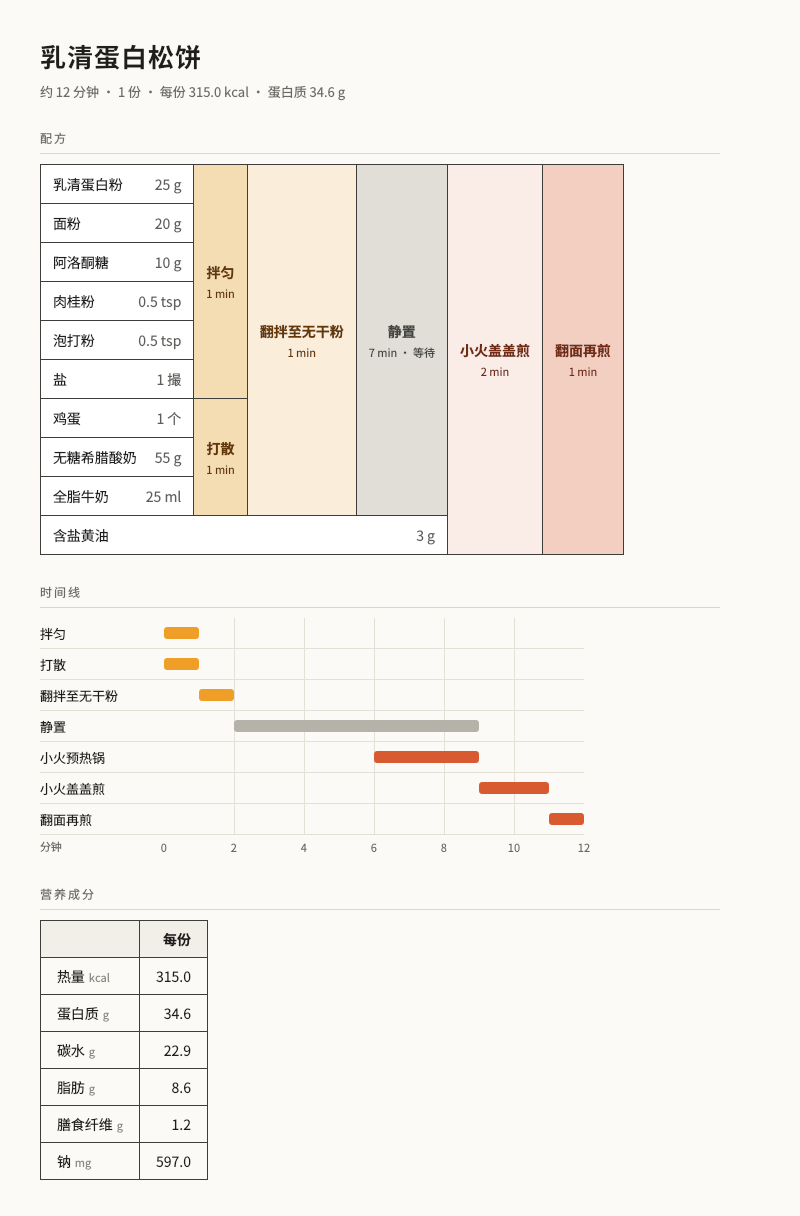
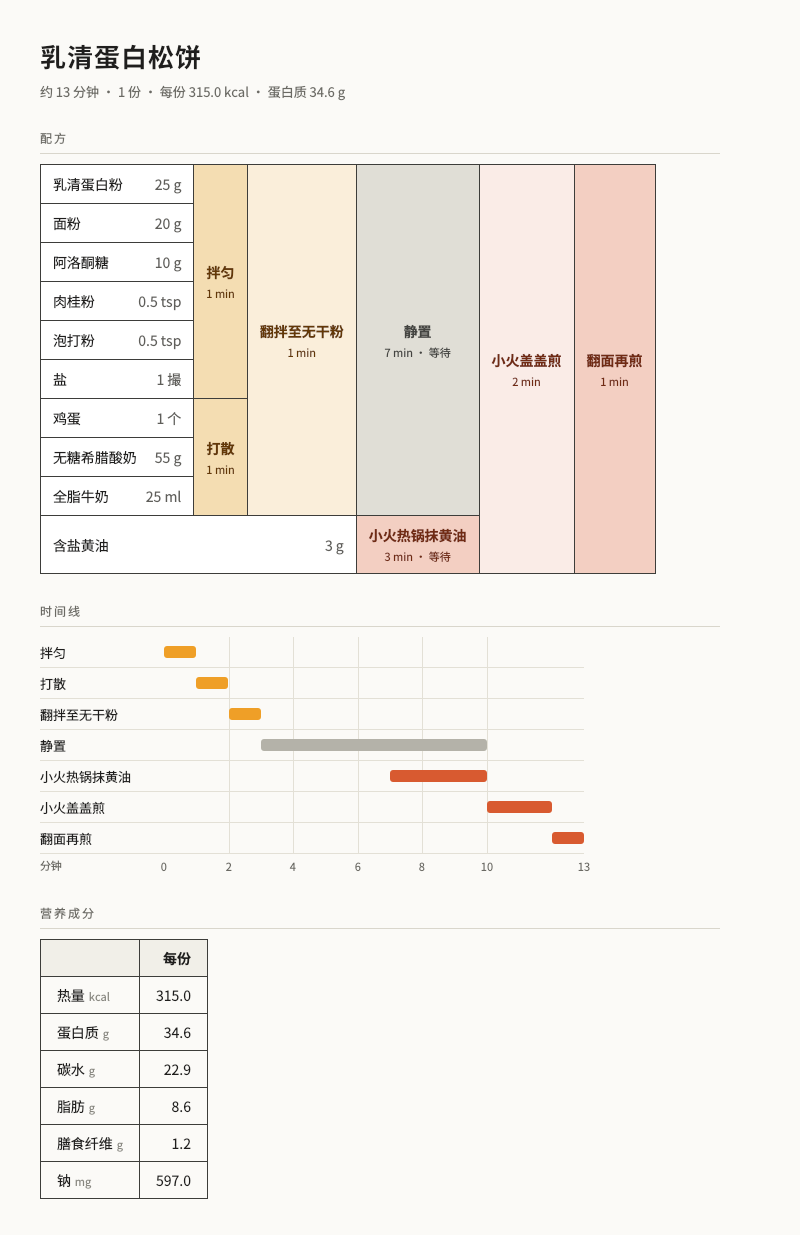
Schedule for one cook and put pan prep in the recipe table
- render_recipe.py: hands-on steps no longer overlap on the timeline;
  steps sit right-aligned so side prep lines up under the step it runs
  alongside; input-less prep steps get their own table row; end tick
  no longer collides with the last grid label
- recipes: butter now goes through a pan-heating step that appears in
  the table and finishes when resting/soaking ends
- SKILL.md: add a self-check step before showing the result;
  yaml-format.md documents prep-in-table and the one-cook timeline

Claude-Session: https://claude.ai/code/session_01QTuuncf3o8J9F6xQdQUiuV

diff --git a/skills/recipe-table/scripts/render_recipe.py b/skills/recipe-table/scripts/render_recipe.py
@@ -30,11 +30,12 @@ for k, s in STEPS.items():
         assert c in ING or c in STEPS, f"{k}: unknown input {c}"
     s["phase"] = s.get("phase") or ("wait" if s.get("passive") else "prep")
     assert s["phase"] in ("prep", "wait", "heat"), f"{k}: phase must be prep/wait/heat"
-TREE = {k: s for k, s in STEPS.items() if s["in"]}
-uses = [c for s in TREE.values() for c in s["in"]]
+uses = [c for s in STEPS.values() for c in s["in"]]
 dup = sorted({c for c in uses if uses.count(c) > 1})
 assert not dup, f"used by more than one step (split them): {dup}"
 used = set(uses)
+# table = steps that consume something or are consumed; a step with neither only shows on the timeline
+TREE = {k: s for k, s in STEPS.items() if s["in"] or k in used}
 roots = [k for k in TREE if k not in used]
 assert len(roots) == 1, f"need exactly one final step, got {roots}"
 root = roots[0]
@@ -45,16 +46,21 @@ for k, i in ING.items():
         assert len(i["nut"]) == 6, f"{k}: nut needs 6 numbers [kcal,P,C,F,fiber,Na]"
 
 # ---------- table layout ----------
-col = {k: 0 for k in ING}
-def colof(k):
-    if k not in col:
-        col[k] = 1 + max(colof(c) for c in TREE[k]["in"])
-    return col[k]
-colof(root)
+# Steps sit as far right as possible (one column left of the step they feed), so a side branch
+# like "heat the pan with butter" lines up under the step it runs alongside; ingredient cells and
+# input-less steps start at column 0 and stretch right to meet their parent.
 parent = {c: k for k, s in TREE.items() for c in s["in"]}
+depth = {root: 0}
+def walk(k):
+    for c in TREE[k]["in"] if k in TREE else []:
+        depth[c] = depth[k] + 1
+        walk(c)
+walk(root)
+LAST = 1 + max(depth[k] for k in TREE)
+col = {k: (0 if k in ING or not TREE[k]["in"] else LAST - depth[k]) for k in depth}
 leaves = []
 def dfs(k):
-    if k in ING:
+    if k in ING or not TREE[k]["in"]:
         leaves.append(k)
     else:
         for c in TREE[k]["in"]:
@@ -63,7 +69,7 @@ dfs(root)
 memo = {}
 def leafset(k):
     if k not in memo:
-        memo[k] = [k] if k in ING else [l for c in TREE[k]["in"] for l in leafset(c)]
+        memo[k] = [k] if (k in ING or not TREE[k]["in"]) else [l for c in TREE[k]["in"] for l in leafset(c)]
     return memo[k]
 
 def qty(i):
@@ -102,26 +108,35 @@ def recipe_table(cls_on=True):
     return '<table class="cfe">' + "".join(rows) + "</table>"
 
 # ---------- schedule ----------
+# One cook: hands-on steps never overlap, in the order they are listed. Passive steps (resting,
+# preheating, soaking) run alongside whatever the cook is doing.
 start, end = {}, {k: 0 for k in ING}
-def endof(k):
-    if k not in end:
-        s = STEPS[k]
-        deps = [endof(c) for c in s["in"] + s["after"]]
-        if s.get("end_with"):
-            start[k] = endof(s["end_with"]) - (s.get("min") or 0)
-        elif s.get("start_with"):
-            start[k] = endof(s["start_with"]) - (STEPS[s["start_with"]].get("min") or 0)
-        else:
-            start[k] = max(deps, default=0)
-        end[k] = start[k] + (s.get("min") or 0)
-    return end[k]
-for k in STEPS:
-    endof(k)
+cook_free = 0
+for k, s in STEPS.items():
+    m = s.get("min") or 0
+    for d in s["in"] + s["after"]:
+        assert d in end, f"{k}: list it after {d}"
+    ready = max((end[d] for d in s["in"] + s["after"]), default=0)
+    if s.get("end_with") or s.get("start_with"):
+        ref = s.get("end_with") or s.get("start_with")
+        assert ref in end, f"{k}: list it after {ref}"
+        assert s.get("passive"), f"{k}: end_with/start_with only for passive steps (preheat, soak...)"
+        start[k] = end[ref] - m if s.get("end_with") else start[ref]
+        assert start[k] >= ready, f"{k}: would start before its inputs are ready"
+    else:
+        start[k] = ready
+        if not s.get("passive"):
+            start[k] = max(start[k], cook_free)
+    if not s.get("passive"):
+        cook_free = start[k] + m
+    end[k] = start[k] + m
 total = max(end.values())
 order = sorted(STEPS, key=lambda k: (start[k], col.get(k, 0)))
 TICK = next(t for t in (1, 2, 5, 10, 15, 30, 60) if total / t <= 8)
 ticks = list(range(0, total + 1, TICK))
 if ticks[-1] != total:
+    if total - ticks[-1] < TICK / 2 + 0.01 and len(ticks) > 1:  # keep the end label from colliding with the last tick
+        ticks.pop()
     ticks.append(total)
 
 # ---------- nutrition ----------
@@ -190,7 +205,7 @@ def timeline():
     for k in order:
         s = STEPS[k]
         m = s.get("min") or 0
-        cls = "bar wait" if s["phase"] == "wait" else "bar"
+        cls = "bar wait" if s.get("passive") else "bar"
         out.append(f'<div class="lab">{E(s["action"])}</div><div class="track">{grid}'
                    f'<div class="{cls}" style="left:{pct(start[k]):.2f}%;width:{max(pct(m), 1.5):.2f}%" '
                    f'title="{start[k]}–{end[k]} min"></div></div>')
@@ -286,7 +301,7 @@ else:
     g = [FENCE + "mermaid", "gantt", "dateFormat mm", "axisFormat %M", "todayMarker off"]
     for k in order:
         s = STEPS[k]
-        g.append(f"  {s['action']} :{'done, ' if s['phase'] == 'wait' else ''}{k}, {start[k]:02d}, {s.get('min') or 0}m")
+        g.append(f"  {s['action']} :{'done, ' if s.get('passive') else ''}{k}, {start[k]:02d}, {s.get('min') or 0}m")
     g.append(FENCE)
     doc = (f"# {r['title']}\n\n{summary_line()}\n\n## 配方表\n\n{recipe_table(cls_on=False)}\n\n"
            f"## 时间线\n\n" + "\n".join(g) + "\n")

diff --git a/skills/recipe-table/references/yaml-format.md b/skills/recipe-table/references/yaml-format.md
@@ -29,8 +29,8 @@ egg: {name: 鸡蛋, qty: 1, unit: 个, note: 室温, nut: [78, 6, 1, 5, 0, 62], 
 ```yaml
 wet:  {action: 打散, in: [egg, milk], min: 1}
 rest: {action: 静置, in: [mix], min: 7, passive: true}
-heat: {phase: heat, action: 预热锅, min: 3, end_with: rest}
-fry:  {phase: heat, action: 煎, in: [rest, butter], after: [heat], min: 2}
+heat: {phase: heat, action: 热锅抹黄油, in: [butter], min: 3, passive: true, end_with: rest}
+fry:  {phase: heat, action: 煎, in: [rest, heat], min: 2}
 ```
 
 | 字段 | 说明 |
@@ -38,20 +38,33 @@ fry:  {phase: heat, action: 煎, in: [rest, butter], after: [heat], min: 2}
 | `action` | 动作，2–6 个字，细节放进回复正文 |
 | `in` | 用到的材料 id 或前面步骤的 id，决定配方表的合并格 |
 | `min` | 时长（分钟） |
-| `passive` | `true` 表示等待、不用动手，格子里标“等待” |
+| `passive` | `true` 表示不用一直动手（静置、浸泡、热锅、烤箱里烤），可以和别的步骤同时进行，格子里标“等待” |
 | `phase` | `prep`（备料/混合，默认）、`wait`（写了 `passive` 时自动）、`heat`（开火的步骤，要手动写）。只影响图片版颜色 |
-| `after` | 只影响时间线：等这些步骤结束才开始，不进配方表 |
-| `end_with` | 和某一步同时结束（预热最常用：静置结束时锅刚好热） |
-| `start_with` | 和某一步同时开始 |
+| `after` | 只影响时间线：等这些步骤结束才开始，不进配方表（很少用，见规则 4） |
+| `end_with` | 和某一步同时结束（预热最常用：静置结束时锅刚好热）。只能用在 `passive` 步骤上 |
+| `start_with` | 和某一步同时开始。只能用在 `passive` 步骤上 |
 
 ## 规则
 
-脚本会检查前三条，出错时报出具体的 id：
+脚本会检查前四条，出错时报出具体的 id：
 
 1. 整张表只能有一个终点步骤，也就是没有被别的步骤 `in` 用到的那一步。
 2. 每个材料都必须被用到，而且只能用一次。同一种材料分两次加入时拆成两个，比如 `milk1: {name: 牛奶（一半）}` 和 `milk2`，营养数据也按比例拆开。
 3. `phase` 只能是 `prep` / `wait` / `heat`；`nut` 必须是 6 个数。
-4. 预热锅、预热烤箱、烧水这类不消耗材料的准备工作不写 `in`，所以不进配方表、只出现在时间线；用 `end_with` / `start_with` / `after` 安排时间，并在用到它的步骤里写 `after: [它的 id]`。
+4. 步骤按做菜顺序写：每一步要排在它 `in` / `after` / `end_with` 用到的步骤后面。
+5. 准备工作（热锅、化黄油、预热烤箱、烧水）要进配方表，因为看表的人得知道有这一步、什么时候做：
+   - 用到材料的（热锅抹油、化黄油）就把那个材料写进 `in`，再把这一步写进用它的步骤的 `in`，比如 `butter → 热锅抹黄油 → 煎`。
+   - 不用材料的（预热烤箱、烧水）`in` 留空，但同样写进用它的步骤的 `in`；表里会单独占一行，从最左边拉到用它的那一步。
+   - 一般标 `passive: true`、`phase: heat`，再用 `end_with` 对齐到它在等的那一步，表格里它会排在那一步正下方。
+   - `after` 只留给确实不该进表的依赖。
+
+## 时间线怎么排
+
+默认一个人做饭：不是 `passive` 的步骤一个接一个按列出顺序做，不会重叠；`passive` 步骤（静置、浸泡、热锅、烤）可以和动手的步骤同时进行。所以配方表上能并行的两支（比如拌干料和打湿料），在时间线上会排成先后。写完看一眼时间线是否符合实际：
+
+- 两件需要手的事不会同时出现；同时出现说明有一步该是 `passive` 却没标，或者标错了。
+- 热锅、预热这类步骤结束的时刻，正好是要用它的那一步开始的时刻。
+- 时长合理：比如 10 g 黄油在热锅里 30 秒就化，“化黄油 2 分钟”其实是热锅的时间，步骤名要写清楚是“热锅化黄油”。
 
 ## 营养计算
 

diff --git a/skills/recipe-table/SKILL.md b/skills/recipe-table/SKILL.md
@@ -16,7 +16,8 @@ description: 把食谱（文字、链接、YouTube 字幕、截图）整理成 C
 2. **写 YAML**，存到 scratchpad 的 `recipes/<slug>.yaml`。字段和规则见 `references/yaml-format.md`，第一次写之前读一遍；`assets/examples/` 里有两个完整示例可以照着改。几条容易忽略的：
    - 材料用通用名，不写品牌或型号：配方是给人看、给人分享的，品牌只是用户自己买的那一款。品牌信息需要时写进 `src`。
    - 原文没写时长就按常识估，回复里说明哪些是估的。
-   - 开火的步骤（包括预热）写 `phase: heat`，等待写 `passive: true`；预热这类不消耗材料的步骤通常用 `end_with` 对齐到它等的那一步。
+   - 热锅、化黄油、预热烤箱这类准备工作也要进配方表，写进用它的那一步的 `in`；它们通常标 `passive: true` 并用 `end_with` 对齐到正在等的那一步。具体写法见 `references/yaml-format.md` 规则 5。
+   - 开火的步骤写 `phase: heat`，不用一直动手的步骤写 `passive: true`。
 
 3. **填营养数据**：每个材料一个 `nut`（这份用量对应的 6 个数）。有 nutrition-logger 工具时先用 `search_food` 查用户自己的食物库，因为用户实际用的产品最准；查不到再用 `lookup_nutrition` 按用量折算。盐、泡打粉也要算钠，代糖按 0 kcal。缺任何一个 `nut` 就不出营养表，回复里说明缺哪个。
 
@@ -26,11 +27,16 @@ description: 把食谱（文字、链接、YouTube 字幕、截图）整理成 C
    python3 <本 skill 目录>/scripts/render_recipe.py recipes/<slug>.yaml recipes/<slug>.widget --widget
    ```
 
-   脚本会检查结构（材料没用到、被用两次、终点不止一个等），报错就按提示改 YAML 再跑。
+   脚本会检查结构（材料没用到、被用两次、终点不止一个、顺序不对等），报错就按提示改 YAML 再跑。
 
-5. **显示**：读取 `.widget` 文件，把内容原样作为 `widget_code` 传给 visualizer 的 `show_widget`（第一次用前先调 `read_me`，platform 按设备选）。不要手改 HTML，样式问题改脚本，否则下次又回到旧样子。
+5. **自查**：结构通过不等于做得出来。显示之前按真实做菜的样子过一遍，任一条不对就改 YAML 重新渲染：
+   - 配方表里每个实际要做的动作都有一格，尤其是热锅、化黄油、预热这类容易漏的准备工作。
+   - 时间线默认只有一个人做：两件要动手的事不会同时出现。脚本按这个规则排，如果排出来不合理，多半是 `passive` 标错了。
+   - 每一步的时长和名称对得上（化黄油本身半分钟，2 分钟的是“热锅化黄油”）；预热结束正好接上要用它的那一步。
 
-6. **回复**：widget 外用一两句话说总时长、哪些步骤并行、哪些时长或营养数据是估的。表格里已有的内容不要再用文字重复。
+6. **显示**：读取 `.widget` 文件，把内容原样作为 `widget_code` 传给 visualizer 的 `show_widget`（第一次用前先调 `read_me`，platform 按设备选）。不要手改 HTML，样式问题改脚本，否则下次又回到旧样子。
+
+7. **回复**：widget 外用一两句话说总时长、哪些步骤可以趁等待时做、哪些时长或营养数据是估的。表格里已有的内容不要再用文字重复。
 
 ## 其他输出
 

diff --git a/recipes/breakfast/protein-pancake.md b/recipes/breakfast/protein-pancake.md
@@ -1,10 +1,10 @@
 # 乳清蛋白松饼
 
-约 12 分钟 · 1 份 · 每份 315.0 kcal · 蛋白质 34.6 g
+约 13 分钟 · 1 份 · 每份 315.0 kcal · 蛋白质 34.6 g
 
 ## 配方表
 
-<table class="cfe"><tr><td colspan="1">乳清蛋白粉 <b>25 g</b></td><td rowspan="6" colspan="1">拌匀<br><sub>1 min</sub></td><td rowspan="9" colspan="1">翻拌至无干粉<br><sub>1 min</sub></td><td rowspan="9" colspan="1">静置<br><sub>7 min · 等待</sub></td><td rowspan="10" colspan="1">小火盖盖煎<br><sub>2 min</sub></td><td rowspan="10" colspan="1">翻面再煎<br><sub>1 min</sub></td></tr><tr><td colspan="1">面粉 <b>20 g</b></td></tr><tr><td colspan="1">阿洛酮糖 <b>10 g</b></td></tr><tr><td colspan="1">肉桂粉 <b>0.5 tsp</b></td></tr><tr><td colspan="1">泡打粉 <b>0.5 tsp</b></td></tr><tr><td colspan="1">盐 <b>1 撮</b></td></tr><tr><td colspan="1">鸡蛋 <b>1 个</b></td><td rowspan="3" colspan="1">打散<br><sub>1 min</sub></td></tr><tr><td colspan="1">无糖希腊酸奶 <b>55 g</b></td></tr><tr><td colspan="1">全脂牛奶 <b>25 ml</b></td></tr><tr><td colspan="4">含盐黄油 <b>3 g</b></td></tr></table>
+<table class="cfe"><tr><td colspan="1">乳清蛋白粉 <b>25 g</b></td><td rowspan="6" colspan="1">拌匀<br><sub>1 min</sub></td><td rowspan="9" colspan="1">翻拌至无干粉<br><sub>1 min</sub></td><td rowspan="9" colspan="1">静置<br><sub>7 min · 等待</sub></td><td rowspan="10" colspan="1">小火盖盖煎<br><sub>2 min</sub></td><td rowspan="10" colspan="1">翻面再煎<br><sub>1 min</sub></td></tr><tr><td colspan="1">面粉 <b>20 g</b></td></tr><tr><td colspan="1">阿洛酮糖 <b>10 g</b></td></tr><tr><td colspan="1">肉桂粉 <b>0.5 tsp</b></td></tr><tr><td colspan="1">泡打粉 <b>0.5 tsp</b></td></tr><tr><td colspan="1">盐 <b>1 撮</b></td></tr><tr><td colspan="1">鸡蛋 <b>1 个</b></td><td rowspan="3" colspan="1">打散<br><sub>1 min</sub></td></tr><tr><td colspan="1">无糖希腊酸奶 <b>55 g</b></td></tr><tr><td colspan="1">全脂牛奶 <b>25 ml</b></td></tr><tr><td colspan="3">含盐黄油 <b>3 g</b></td><td rowspan="1" colspan="1">小火热锅抹黄油<br><sub>3 min · 等待</sub></td></tr></table>
 
 ## 时间线
 
@@ -14,12 +14,12 @@ dateFormat mm
 axisFormat %M
 todayMarker off
   拌匀 :dry, 00, 1m
-  打散 :wet, 00, 1m
-  翻拌至无干粉 :mix, 01, 1m
-  静置 :done, rest, 02, 7m
-  小火预热锅 :heat, 06, 3m
-  小火盖盖煎 :fry, 09, 2m
-  翻面再煎 :flip, 11, 1m
+  打散 :wet, 01, 1m
+  翻拌至无干粉 :mix, 02, 1m
+  静置 :done, rest, 03, 7m
+  小火热锅抹黄油 :done, heat, 07, 3m
+  小火盖盖煎 :fry, 10, 2m
+  翻面再煎 :flip, 12, 1m
 ```
 
 ## 营养成分

diff --git a/recipes/breakfast/protein-french-toast.md b/recipes/breakfast/protein-french-toast.md
@@ -4,7 +4,7 @@
 
 ## 配方表
 
-<table class="cfe"><tr><td colspan="1">0 脂希腊酸奶 <b>50 g</b></td><td rowspan="4" colspan="1">搅匀蛋液<br><sub>2 min</sub></td><td rowspan="5" colspan="1">面包两面浸透<br><sub>2 min · 等待</sub></td><td rowspan="6" colspan="1">煎第一面<br><sub>3 min</sub></td><td rowspan="6" colspan="1">翻面再煎<br><sub>3 min</sub></td></tr><tr><td colspan="1">全脂牛奶 <b>50 ml</b></td></tr><tr><td colspan="1">鸡蛋 <b>3 个</b></td></tr><tr><td colspan="1">阿洛酮糖 <b>20 g</b></td></tr><tr><td colspan="2">高蛋白低碳面包 <b>3 片</b><br><sub>约 125 g</sub></td></tr><tr><td colspan="3">含盐黄油 <b>10 g</b></td></tr></table>
+<table class="cfe"><tr><td colspan="1">0 脂希腊酸奶 <b>50 g</b></td><td rowspan="4" colspan="1">搅匀蛋液<br><sub>2 min</sub></td><td rowspan="5" colspan="1">面包两面浸透<br><sub>2 min · 等待</sub></td><td rowspan="6" colspan="1">煎第一面<br><sub>3 min</sub></td><td rowspan="6" colspan="1">翻面再煎<br><sub>3 min</sub></td></tr><tr><td colspan="1">全脂牛奶 <b>50 ml</b></td></tr><tr><td colspan="1">鸡蛋 <b>3 个</b></td></tr><tr><td colspan="1">阿洛酮糖 <b>20 g</b></td></tr><tr><td colspan="2">高蛋白低碳面包 <b>3 片</b><br><sub>约 125 g</sub></td></tr><tr><td colspan="2">含盐黄油 <b>10 g</b></td><td rowspan="1" colspan="1">热锅化黄油<br><sub>2 min · 等待</sub></td></tr></table>
 
 ## 时间线
 
@@ -14,8 +14,8 @@ dateFormat mm
 axisFormat %M
 todayMarker off
   搅匀蛋液 :wet, 00, 2m
-  中小火化黄油 :heat, 02, 2m
   面包两面浸透 :done, soak, 02, 2m
+  热锅化黄油 :done, heat, 02, 2m
   煎第一面 :fry, 04, 3m
   翻面再煎 :flip, 07, 3m
 ```

diff --git a/skills/recipe-table/references/style.md b/skills/recipe-table/references/style.md
@@ -7,7 +7,7 @@
 - 材料格先写名称，用量靠右对齐，让一列用量上下对齐。
 - 步骤格写动作，下面一行小字写时长；等待的步骤在时长后加“· 等待”。
 - 标题下一行摘要：总时长、份数、每份热量和蛋白质。
-- 时间线：底部有分钟刻度（间隔自动选 1/2/5/10… 分钟，最多约 8 格），每个刻度有竖向参考线，每行有横向分隔线，条形是实心的。
+- 时间线：底部有分钟刻度（间隔自动选 1/2/5/10… 分钟，最多约 8 格；结尾时刻离最后一个刻度太近时去掉那个刻度，避免数字挤在一起），每个刻度有竖向参考线，每行有横向分隔线，条形是实心的。
 - 营养表：所有数值一位小数；单位用灰色小字跟在名称后面；整份列 = 每份 × 份数。
 - 不放图例，不放营养表下面的说明小字。
 - 不用虚线。
@@ -15,7 +15,7 @@
 ## 对话里的 widget
 
 - 不用颜色区分，只用实线边框。用户觉得对话里的颜色看不清。
-- 时间线里动手的步骤用深色条，等待用浅灰条。
+- 时间线里动手的步骤用深色条，`passive` 步骤（静置、热锅等）用浅灰条。
 - 颜色都用 visualizer 的 CSS 变量，深色模式自动适配。
 
 ## 图片版（`--png`）
